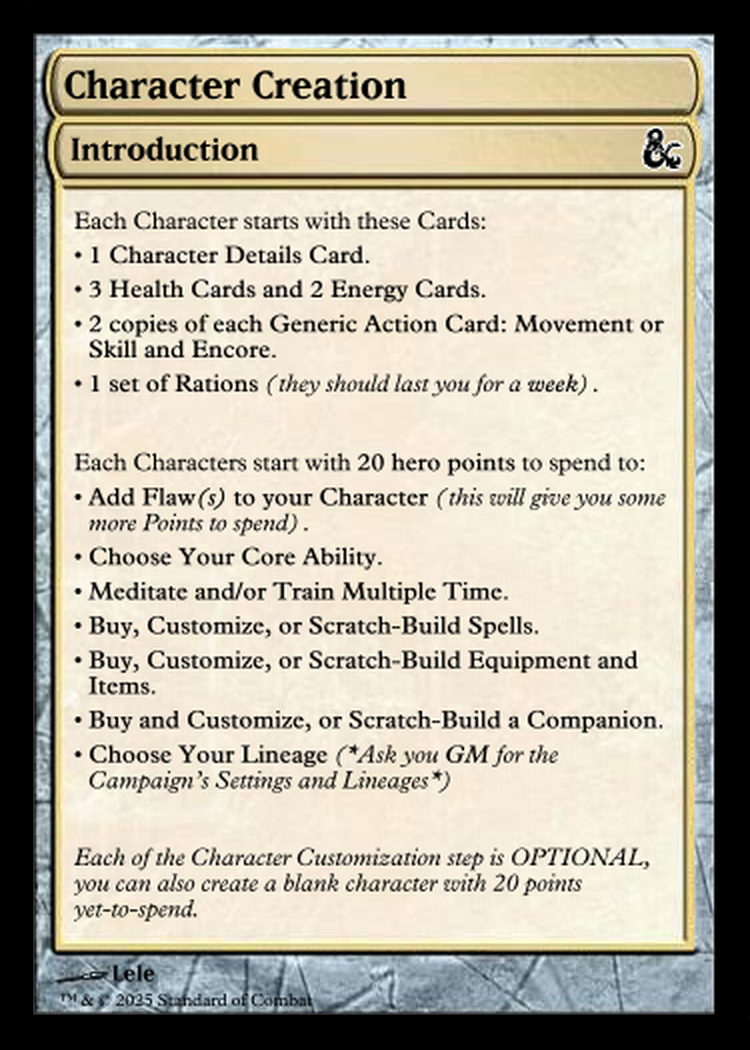
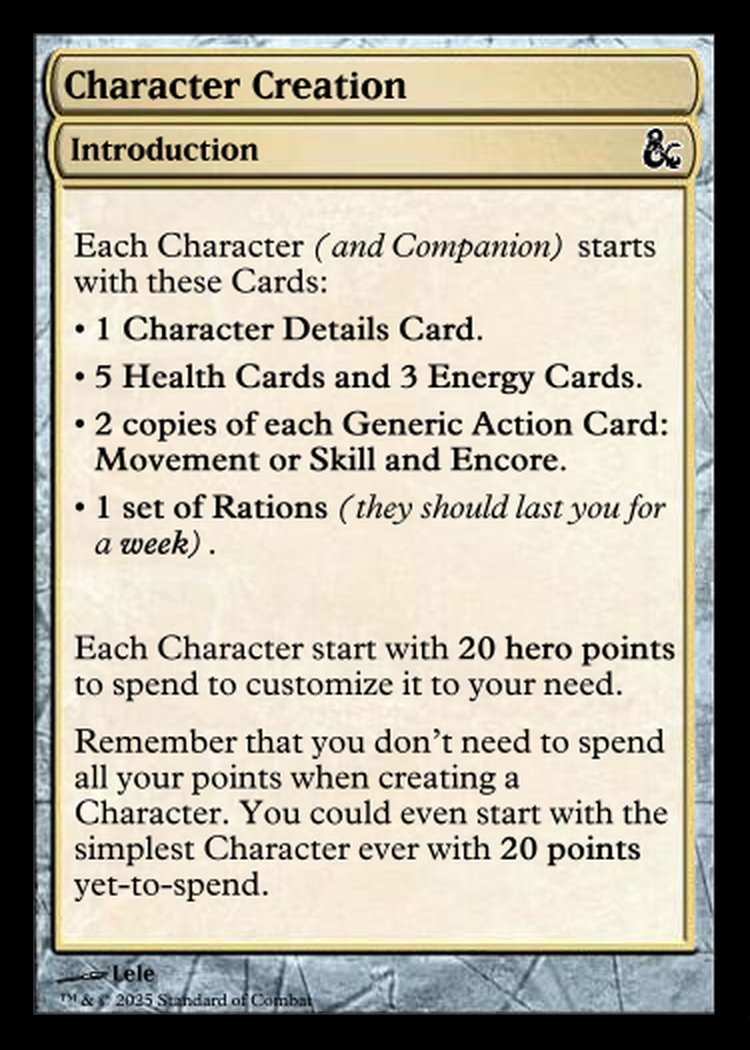
Quartz sync: Jul 28, 2025, 9:23 PM

Changed region(s): [[0.092, 0.1829, 0.92, 0.8838]]

diff --git a/content/Notes & Images/SoC - Ideas to Implement.md b/content/Notes & Images/SoC - Ideas to Implement.md
@@ -19,7 +19,7 @@ aliases:
 - The armor needs to be discarded in some way.
 - ***Idea #1*** — Remove **AC**, all attacks and effects are decided by an [[SoC • Rules - Opposing Rolls]] against the attacker and the receiver.<br>If you are the receiver, by discarding a piece of your armor you can [[reroll]] any of yours [[Agility]] or [[Might]] [[Skill Checks|checks]].
 - ***Idea #2*** — Remove **AC**, all attacks and effects are decided by an [[SoC • Rules - Opposing Rolls]] against the attacker and the receiver.<br>The Armor is only one piece.<br>While you have this **armor** equipped, all [[Agility]] and [[Might]] [[Skill Checks|Skill Checks]] made to defend against an [[SoC • Rules - Opposing Rolls]] are made with [[SoC • Rules - Advantage and Disadvantage|Advantage]], however if the result of the roll is under a certain value (depending on the type of armor) the armor become [[Damaged Gear|Damaged]] and you have to discard it<br>***BIG PROBLEM***: [[Might]] and [[Agility]] will probably be overpowered.
-- ***Idea #3*** — Remove **AC**, all attacks and effects are decided by an [[SoC • Rules - Opposing Rolls]] against the attacker and the receiver.<br>The Armor is only one piece.<br>***Light Armor***:<br>***[[Discard Pile|Discard]]***: Reduce the incoming damage by 3.<br>(_Damage Reduction effects cannot be comulated, if you have multiple active, only choose **1** of them to apply_)<br>***Buckler***:<br>***[[Discard Pile|Discard]]***: Reduce the incoming damage by 3.<br>(_Damage Reduction effects cannot be comulated, if you have multiple active, only choose **1** of them to apply_)<br>***Medium Armors***:<br>If an attack would deal **1** damage, instead it deals **0**.<br>(_Damage Reduction effects cannot be comulated, if you have multiple active, only choose **1** of them to apply_)<br>***[[Discard Pile|Discard]]***: Reduce the incoming damage by 4.<br>***Shield***:<br>Reduce all incoming damage by **2**.<br>_Keep yuor Shield Up_ — Whenever an attack is made against you: roll a **d10**, if the result is **4 or less**, [[Discard Pile|discard]] this card after the attack.<br>(_Damage Reduction effects cannot be comulated, if you have multiple active, only choose **1** of them to apply_)<br>***Heavy Armors***:<br>Reduce all incoming damage by **1**.<br>***[[Discard Pile|Discard]]***: Reduce the incoming damage by 5.<br>(_Damage Reduction effects cannot be comulated, if you have multiple active, only choose **1** of them to apply_)<br>***Tower Shields***:<br>Reduce all incoming damage by **2**.<br>_Keep yuor Shield Up_ — Whenever an attack is made against you: roll a **d10**, if the result is **2 or less**, [[Discard Pile|discard]] this card after the attack.<br>_Moving Tower_ — If one or more Creatures stand [[Combat Zones|near you]], you can also _Raise your Shield_ during their turns, to reduce the damge done to them.<br>(_Damage Reduction effects cannot be comulated, if you have multiple active, only choose **1** of them to apply_)<br>Change the [[SoC • Spell Effect - Mend|Mend]] spell to:<br>***2 pts*** — [[Heal and Repair|Repair]] a Light Armor or a Shield.<br>***4 pts*** — [[Heal and Repair|Repair]] a Medium Armor, a Light Armor or a Shield.<br>***6 pts*** — [[Heal and Repair|Repair]] any kind of Armor or Shields.
+- ***Idea #3*** — Remove **AC**, all attacks and effects are decided by an [[SoC • Rules - Opposing Rolls]] against the attacker and the receiver.<br>The Armor is only one piece.<br>***Light Armor***:<br>***[[Discard Pile|Discard]]***: Reduce the incoming damage by 3.<br>(_Damage Reduction effects cannot be comulated, if you have multiple active, only choose **1** of them to apply_)<br>***Buckler***:<br>***[[Discard Pile|Discard]]***: Reduce the incoming damage by 3.<br>(_Damage Reduction effects cannot be comulated, if you have multiple active, only choose **1** of them to apply_)<br>***Medium Armors***:<br>If an attack would deal **1** damage, instead it deals **0**.<br>(_Damage Reduction effects cannot be comulated, if you have multiple active, only choose **1** of them to apply_)<br>***[[Discard Pile|Discard]]***: Reduce the incoming damage by 4.<br>***Shield***:<br>Reduce all incoming damage by **2**.<br>_Keep yuor Shield Up_ — Whenever an attack is made against you: roll a **d10**, if the result is **4 or less**, [[Discard Pile|discard]] this card after the attack.<br>(_Damage Reduction effects cannot be comulated, if you have multiple active, only choose **1** of them to apply_)<br>***Heavy Armors***:<br>Reduce all incoming damage by **1**.<br>***[[Discard Pile|Discard]]***: Reduce the incoming damage by 5.<br>(_Damage Reduction effects cannot be comulated, if you have multiple active, only choose **1** of them to apply_)<br>***Tower Shields***:<br>Reduce all incoming damage by **2**.<br>_Keep yuor Shield Up_ — Whenever an attack is made against you: roll a **d10**, if the result is **2 or less**, [[Discard Pile|discard]] this card after the attack.<br>_Moving Tower_ — If one or more Creatures stand [[SoC • Discord Bot - Thread • ZONES|near you]], you can also _Raise your Shield_ during their turns, to reduce the damge done to them.<br>(_Damage Reduction effects cannot be comulated, if you have multiple active, only choose **1** of them to apply_)<br>Change the [[SoC • Spell Effect - Mend|Mend]] spell to:<br>***2 pts*** — [[Heal and Repair|Repair]] a Light Armor or a Shield.<br>***4 pts*** — [[Heal and Repair|Repair]] a Medium Armor, a Light Armor or a Shield.<br>***6 pts*** — [[Heal and Repair|Repair]] any kind of Armor or Shields.
 - ***Idea #4*** — Should I introduce a new [[Skill Checks|Skill]] like **Evasion** and/or **Fortitude**, to reduce the power of [[Might]] and [[Agility]]?<br>This skill will be used to avoid most damages.
 ----
 ##### Spells

diff --git a/content/SoC • Discord Bot - Thread • SPELL LIMITATIONS.md b/content/SoC • Discord Bot - Thread • SPELL LIMITATIONS.md
@@ -2,36 +2,7 @@
 aliases:
   - Spell Limitations
 ---
-# Spell Limitations (just a description)
-1. ***[[SoC • Spell Limitation - Binding Oath|Binding Oath]]*** — _You learned this spell as part of a deal_.
-2. ***[[SoC • Spell Limitation - Cannot be Customized|Cannot be customized]]*** — _You cannot modify this spell anymore_.
-3. ***[[SoC • Spell Limitation - Cannot be Targeted|Cannot be targeted]]*** — _Spell always flies wild_.
-4. ***[[SoC • Spell Limitation - Elemental Anchor|Elemental anchor]]*** — _This spell can only be conjured via a particular element_.
-5. ***[[SoC • Spell Limitation - Eldrich Bond|Eldrich bond]]*** — _You and the target of the spell become temporarily connected_.
-6. ***[[SoC • Spell Limitation - Exhausting|Exhausting]]*** — _No magic can be used in the **following [[Phases of Combat|round]]** after cast_.
-7. ***[[SoC • Spell Limitation - Cost Material to Cast|Cost material to cast]]*** — _When cast, one item in your inventory is [[Destroyed Gear|destroyed]]_.
-8. ***[[SoC • Spell Limitation - Druidic|Druidic]]*** — _Cannot be cast if the caster wears or is touching any metal_.
-9. ***[[SoC • Spell Limitation - Debilitating|Debilitating]]*** — _After this spell is cast, you can only make one action on your next turn_.
-10. ***[[SoC • Spell Limitation - Linked to Physical Object|Linked to physical object]]*** — _The spell manifests with or through an object_.
-11. ***[[SoC • Spell Limitation - Maddening|Maddening]]*** — _There is a chance of going temporarily crazy_.
-12. ***[[SoC • Spell Limitation - Must be Sustained|Must be sustained]]*** — _The spell is difficult to maintain and cast_.
-13. ***[[SoC • Spell Limitation - Mana Drain|Mana drain]]*** — _Sacrifice another of your spells_.
-14. ***[[SoC • Spell Limitation - Nullified by|Nullified by]]*** — _Some type of enemies are unaffected_.
-15. ***[[SoC • Spell Limitation - Only Works on Specific Target Type|Only works on specific target type]]*** — _Only a type of enemy is affected_.
-16. ***[[SoC • Spell Limitation - Only Works Outdoors|Only works outdoors]]*** — _Elemental forces are required to cast_.
-17. ***[[SoC • Spell Limitation - Painful|Painful]]*** — _Be careful when casting this spell, it will try to harm you_.
-18. ***[[SoC • Spell Limitation - Rad Speech|Rad speech]]*** — _You need to shout when casting_.
-19. ***[[SoC • Spell Limitation - Requires Contact|Requires Contact]]*** — _Cannot be cast on yourself, and you need to touch your target/s_.
-20. ***[[SoC • Spell Limitation - Ritual|Ritual]]*** — _The spell is really difficult to cast_.
-21. ***[[SoC • Spell Limitation - Sacrificial Rite|Sacrificial rite]]*** — _The spell demands fresh blood_.
-22. ***[[SoC • Spell Limitation - Symbiotic|Symbiotic]]*** — _A friendly caster needs to help you_.
-23. ***[[SoC • Spell Limitation - Takes One Round to Cast|Takes one turn to cast]]*** — _Slower to cast_.
-24. ***[[SoC • Spell Limitation - Temporal Lock|Temporal lock]]*** — _This spell can only be cast at a specific time of day_.
-25. ***[[SoC • Spell Limitation - Unstable|Unstable]]*** — _A wobbly, barely-contained magic_.
-26. ***[[SoC • Spell Limitation - Uses Infernal Powers|Uses infernal powers]]*** — _Ancient forces might attack you if you use this spell_.
-27. ***[[SoC • Spell Limitation - Veil of Silence|Veil of silence]]*** — _Lose your voice_.
-
-# Spell Limitations Cards
+# Spell Limitations
 
 ![[SoC • Card - Binding Oath.png]]
 

diff --git a/content/Notes & Images/SoC • Rest and Recovery - A Night of Rest.md b/content/Notes & Images/SoC • Rest and Recovery - A Night of Rest.md
@@ -4,7 +4,7 @@ aliases:
 ---
 %%
 - ***Type***: Rules
-- ***Description***:<br>**After a night or rest** — You regain all your [[Discard Pile|Discarded]] [[SoC • Discord Bot - Thread • HEALTH]] and [[SoC • Discord Bot - Thread • ENERGY|Energy]] cards, you remove **1** [[SoC • Generic Card - Closer to Death|Closer to Death Card]] if you had any, also many **conditions** end after a night of rest.<br>**As part of a night of rest** — _If you have enough points to spend_, you can work on personal projects (_like creating a [[SoC • Discord Bot - Thread • CUSTOM SPELLS|Spell]], [[Custom Equipment|Upgrading your Gear]], ..._), you can invest up to **2 hours** of time into this projects.<br>Otherwise, you can spend some time [[Meditate and Train|Meditating and Training]]. Roll **5d20**s, for **any** [[The Extremes|critical success]], you can spend your points in one:<br>• ***Meditate (2 pts)*** — Increase one skill modifier by **+1**. Gain **1 [[Type of Cards|Energy Card]]**.<br>• ***Train (1 pt)*** — Increase one skill modifier by **+1**. Gain **1 [[Type of Cards|Health Card]]**.<br>**Slept Well** — If you choose to rest for the full **8 hours**, without indulging in any other activity, you'll gain **1 [[SoC • Discord Bot - Thread • HEALTH|Temporary Health]]** and **1 [[SoC • Discord Bot - Thread • ENERGY|Temporary Energy]]** for the rest of the next day.<br>You can take up to **1** night of rest **per day**. _Normally a night of rest is considered to be a total of **8 hours**_.
+- ***Description***:<br>**After a night or rest** — You regain all your [[Discard Pile|Discarded]] [[SoC • Discord Bot - Thread • HEALTH]] and [[SoC • Discord Bot - Thread • ENERGY|Energy]] cards, you remove **1** [[SoC • Generic Card - Closer to Death|Closer to Death Card]] if you had any, also many **conditions** end after a night of rest.<br>**As part of a night of rest** — _If you have enough points to spend_, you can work on personal projects (_like creating a [[SoC • Discord Bot - Thread • CUSTOM SPELLS|Spell]], [[SoC • Discord Bot - Thread • CUSTOM GEAR|Upgrading your Gear]], ..._), you can invest up to **2 hours** of time into this projects.<br>Otherwise, you can spend some time [[Meditate and Train|Meditating and Training]]. Roll **5d20**s, for **any** [[The Extremes|critical success]], you can spend your points in one:<br>• ***Meditate (2 pts)*** — Increase one skill modifier by **+1**. Gain **1 [[Type of Cards|Energy Card]]**.<br>• ***Train (1 pt)*** — Increase one skill modifier by **+1**. Gain **1 [[Type of Cards|Health Card]]**.<br>**Slept Well** — If you choose to rest for the full **8 hours**, without indulging in any other activity, you'll gain **1 [[SoC • Discord Bot - Thread • HEALTH|Temporary Health]]** and **1 [[SoC • Discord Bot - Thread • ENERGY|Temporary Energy]]** for the rest of the next day.<br>You can take up to **1** night of rest **per day**. _Normally a night of rest is considered to be a total of **8 hours**_.
 - ***Flavor***: 
 - ***Rarity***: common
 - ***Color***: artifact, white, black 

diff --git a/content/SoC • Rules - Potions.md b/content/SoC • Rules - Potions.md
@@ -4,7 +4,7 @@ aliases:
 ---
 %%
 - ***Type***: Rules
-- ***Description***:<br>You can create a Potion by imbuing a [[SoC • Discord Bot - Thread • CUSTOM SPELLS|Spell]] you know, that does not have a [[SoC • Discord Bot - Thread • CUSTOM SPELLS|Limitation]], and pay half its cost in [[SoC • Discord Bot - Thread • NEW CAMPAIGN]] (_rounded up_).<br>You also need to spend **1 hour** imbuing the spell, and succeed an [[Arcane]], [[Nature]] or [[Faith]] [[Skill Checks|check]] with [[Skill Checks|DC]] equal to **10 + 3 times the cost of the spell**.<br><br>Like a Scroll, a spell casted from a Potion requiring one or more [[Skill Checks|Skill Checks]] uses the [[Skill Checks|Modifiers]] of the Creature that made it. And after the spell imbued in a Potion is casted the item is [[Destroyed Gear|Destroyed]].<br><br>A potion does not require to be deciphered to be used, you can drink it, or throw it, and the spell effects are applied on the Creature or [[Combat Zones|Zone]] it falls on.<br>You can throw it in your [[Combat Zones|Zone]] or a nearby one without difficulty. If you wish to target a Creature with the potion you need to succeed in a [[SoC • Rules - Melee and Ranged Attacks|Ranged Attack]] against it.<br><br>You can still try do decipher it first, but it will be very difficult, you need to spend **1 hour** studying it, and succeed an [[Intuition]] [[Skill Checks|check]] with [[Skill Checks|DC]] equal to **10 + 5 times the cost of the spell***.
+- ***Description***:<br>You can create a Potion by imbuing a [[SoC • Discord Bot - Thread • CUSTOM SPELLS|Spell]] you know, that does not have a [[SoC • Discord Bot - Thread • CUSTOM SPELLS|Limitation]], and pay half its cost in [[SoC • Discord Bot - Thread • NEW CAMPAIGN]] (_rounded up_).<br>You also need to spend **1 hour** imbuing the spell, and succeed an [[Arcane]], [[Nature]] or [[Faith]] [[Skill Checks|check]] with [[Skill Checks|DC]] equal to **10 + 3 times the cost of the spell**.<br><br>Like a Scroll, a spell casted from a Potion requiring one or more [[Skill Checks|Skill Checks]] uses the [[Skill Checks|Modifiers]] of the Creature that made it. And after the spell imbued in a Potion is casted the item is [[Destroyed Gear|Destroyed]].<br><br>A potion does not require to be deciphered to be used, you can drink it, or throw it, and the spell effects are applied on the Creature or [[SoC • Discord Bot - Thread • ZONES|Zone]] it falls on.<br>You can throw it in your [[SoC • Discord Bot - Thread • ZONES|Zone]] or a nearby one without difficulty. If you wish to target a Creature with the potion you need to succeed in a [[SoC • Rules - Melee and Ranged Attacks|Ranged Attack]] against it.<br><br>You can still try do decipher it first, but it will be very difficult, you need to spend **1 hour** studying it, and succeed an [[Intuition]] [[Skill Checks|check]] with [[Skill Checks|DC]] equal to **10 + 5 times the cost of the spell***.
 - ***Flavor***: 
 - ***Rarity***: uncommon
 - ***Color***: artifact, blue, red

diff --git a/content/SoC • Discord Bot - Thread • SPELL EFFECTS.md b/content/SoC • Discord Bot - Thread • SPELL EFFECTS.md
@@ -1,38 +1,11 @@
 ---
 aliases:
   - Spell Effects
+  - Spell Effect
+  - Effect
+  - Effects
 ---
-# Spell Effects (just a description)
-1. ***[[SoC • Spell Effect - Alter|Adapt]]*** — _Change a Creature's body_.
-2. ***[[SoC • Spell Effect - Area|Area]]*** — _Increase area of a spell_.
-3. ***[[SoC • Spell Effect - Banish|Banish]]*** — _Destroy summoned creatures with ease_.
-4. ***[[SoC • Spell Effect - Create|Create]]*** — _Create an object from nothing imbued with a spell_.
-5. ***[[SoC • Spell Effect - Defensive|Defense]]*** — _Magically defend against incoming attacks_
-6. ***[[SoC • Spell Effect - Duration|Duration]]*** — _The spell lasts longer_.
-7. ***[[SoC • Spell Effect - Dispel|Dispel]]*** — _Cancel other magic_.
-8. ***[[SoC • Spell Effect - Dominate|Dominate]]*** — _Force another creature to do your bidding_.
-9. ***[[SoC • Spell Effect - Harm|Harm]]*** — _Add damage to your spell_.
-10. ***[[SoC • Spell Effect - Haste|Haste]]*** — _Increase your speed_.
-11. ***[[SoC • Spell Effect - Hidden|Hidden]]*** — _Cast this spell without anyone noticing_.
-12. ***[[SoC • Spell Effect - Mend|Mend]]*** — _Repair a piece of equipment_.
-13. ***[[SoC • Spell Effect - Illusion|Illusion]]*** — _Create fake imagery_.
-14. ***[[SoC • Spell Effect - Lasting|Lasting]]*** — _Your spell become permanent_.
-15. ***[[SoC • Spell Effect - Obscure|Obscure]]*** — _Magically hide objects or creatures_.
-16. ***[[SoC • Spell Effect - Passive|Passive]]*** — _The Spell effect is always active on yourself_.
-17. ***[[SoC • Spell Effect - Psychokinesis|Psychokinesis]]*** — _Use [[Might]] at a distance_.
-18. ***[[SoC • Spell Effect - Randomic|Randomic]]*** — _The spell gains multiple effect, but are casted at random_.
-19. ***[[SoC • Spell Effect - Ranged|Ranged]]*** — _The spell no longer require to touch the target_.
-20. ***[[SoC • Spell Effect - Restore|Restore]]*** — _Heal yourself or an ally_.
-21. ***[[SoC • Spell Effect - Sensory|Sensory]]*** — _Enhance or manipulate a creature senses_.
-22. ***[[SoC • Spell Effect - Shapechange|Shapechange]]*** — _Your body changes in that of an animal_.
-23. ***[[SoC • Spell Effect - Summon|Summon]]*** — _Summon Creatures or Animate Objects to do your bidding_.
-24. ***[[SoC • Spell Effect - Telepathy|Telepathy]]*** — _Read the minds, or indulge in a private conversation_.
-25. ***[[SoC • Spell Effect - Transmute|Transmute]]*** — _Manipulate an inanimate object to your will_.
-26. ***[[SoC • Spell Effect - Transport|Transport]]*** — _Magically teleport a creature or an object_.
-27. ***[[SoC • Spell Effect - Ward|Ward]]*** — _Block access of a specified creature, through a passage_.
-28. ***[[SoC • Spell Effect - Wither|Wither]]*** — _Weaken another creature_.
-
-# Spell Effect Cards
+# Spell Effects
 
 ![[SoC • Card - Alter.png]]
 

diff --git a/content/Notes & Images/SoC • Core Ability - Master of the Forge.md b/content/Notes & Images/SoC • Core Ability - Master of the Forge.md
@@ -6,11 +6,11 @@ aliases:
 - ***Image***:<br>![[SoC • Core Ability - Master of the Forge (Image).png|222]]
 - ***Info***: Core Ability
 - ***Cost***: 7
-- ***Description***:<br>When you roll a [[Forging]] [[Skill Checks]], roll it with [[SoC • Rules - Advantage and Disadvantage|Advantage]].<br>When [[Custom Equipment|Upgrading]] a piece of [[Custom Equipment|Gear]], you can add one more **1 pt cost [[SoC • Discord Bot - Thread • CUSTOM SPELLS|Effect]]**, for free, however you still have to succeed in the [[Forging]] [[Skill Checks|Skill Check]] as usual.
+- ***Description***:<br>When you roll a [[Forging]] [[Skill Checks]], roll it with [[SoC • Rules - Advantage and Disadvantage|Advantage]].<br>When [[SoC • Discord Bot - Thread • CUSTOM GEAR|Upgrading]] a piece of [[SoC • Discord Bot - Thread • CUSTOM GEAR|Gear]], you can add one more **1 pt cost [[SoC • Discord Bot - Thread • CUSTOM SPELLS|Effect]]**, for free, however you still have to succeed in the [[Forging]] [[Skill Checks|Skill Check]] as usual.
 - ***Effects***: 
 - ***Limitations***: 
 - ***Color***: artifact 
-- _**Prompt** [ChatGPT](https://chatgpt.com/?model=auto)_: I need a 2D minimalistic fantasy illustration, in a minimal graphic style with white and black color, and a clean white background. It represents the core ability: ***Master of the Forge***. It has the following effect: Gain **7 points** in the [[Forging]] skill. Choose one [[Custom Equipment#Gear Effects Lists|Gear Effect]], when you successfully create or modify a piece of equipment, via your [[Forging]] [[Skill Checks|Skill]], you can add this effect to it, without paying any additional **points** (however the effect still counts in the [[Total Effect Cost]] of that gear). Add the words "***Master of the Forge***" under the image in a stylish font, they must be clearely visible.
+- _**Prompt** [ChatGPT](https://chatgpt.com/?model=auto)_: I need a 2D minimalistic fantasy illustration, in a minimal graphic style with white and black color, and a clean white background. It represents the core ability: ***Master of the Forge***. It has the following effect: Gain **7 points** in the [[Forging]] skill. Choose one [[SoC • Discord Bot - Thread • CUSTOM GEAR#Gear Effects Lists|Gear Effect]], when you successfully create or modify a piece of equipment, via your [[Forging]] [[Skill Checks|Skill]], you can add this effect to it, without paying any additional **points** (however the effect still counts in the [[Total Effect Cost]] of that gear). Add the words "***Master of the Forge***" under the image in a stylish font, they must be clearely visible.
 %%
 
 ### Card

diff --git a/content/Notes & Images/Forging.md b/content/Notes & Images/Forging.md
@@ -1,7 +1,7 @@
 %%
 - ***Image***:<br>![[Forging (image).png|222]]
 - ***Info***: Skill
-- ***Description***:<br>Learn the art of the **Forge** to:<br>• [[SoC • Rules - Craft New Equipment|Craft]], [[SoC • Rules - Upgrading a Piece of Equipment|Upgrade]] and [[Heal and Repair|Repair]] [[Equipment List|Equipment]].<br>• Identify and understand how a certain [[Custom Equipment|Gear]] works.<br><br>You can **[[SoC • Rules - Craft New Equipment|Craft]]** or **[[SoC • Rules - Upgrading a Piece of Equipment|Upgrade]]** a piece of Equipment, by spending **1 hour** to work on it, and then make a [[Forging]] [[Skill Checks|Skill Check]] with a [[Skill Checks|DC]] of **10 + 3 times the total cost of the equipment**, if you succeed you can spend **Hero Points** to pay its cost and obtain the **equipment**.<br>You can also work **1 hour** on a piece of [[Damaged Gear|Damaged]] Equipment to [[Heal and Repair|Repair]] it. To succeed make a [[Forging]] [[Skill Checks|Skill Check]] with a [[Skill Checks|DC]] of **5 + 3 times the total cost of the equipment**.<br>You can try [[SoC • Rules - Craft New Equipment|Craft]], [[SoC • Rules - Upgrading a Piece of Equipment|Upgrade]] and [[Heal and Repair|Repair]] a piece of Equipment this way, as part of a [[Rest and Recovery|short rest]].
+- ***Description***:<br>Learn the art of the **Forge** to:<br>• [[SoC • Rules - Craft New Equipment|Craft]], [[SoC • Rules - Upgrading a Piece of Equipment|Upgrade]] and [[Heal and Repair|Repair]] [[Equipment List|Equipment]].<br>• Identify and understand how a certain [[SoC • Discord Bot - Thread • CUSTOM GEAR|Gear]] works.<br><br>You can **[[SoC • Rules - Craft New Equipment|Craft]]** or **[[SoC • Rules - Upgrading a Piece of Equipment|Upgrade]]** a piece of Equipment, by spending **1 hour** to work on it, and then make a [[Forging]] [[Skill Checks|Skill Check]] with a [[Skill Checks|DC]] of **10 + 3 times the total cost of the equipment**, if you succeed you can spend **Hero Points** to pay its cost and obtain the **equipment**.<br>You can also work **1 hour** on a piece of [[Damaged Gear|Damaged]] Equipment to [[Heal and Repair|Repair]] it. To succeed make a [[Forging]] [[Skill Checks|Skill Check]] with a [[Skill Checks|DC]] of **5 + 3 times the total cost of the equipment**.<br>You can try [[SoC • Rules - Craft New Equipment|Craft]], [[SoC • Rules - Upgrading a Piece of Equipment|Upgrade]] and [[Heal and Repair|Repair]] a piece of Equipment this way, as part of a [[Rest and Recovery|short rest]].
 - ***Flavor***: 
 - ***Color***: red 
 - ***Rarity***: common

diff --git a/content/SoC • Introduction - Character Creation.md b/content/SoC • Introduction - Character Creation.md
@@ -4,8 +4,8 @@ aliases:
 ---
 %%
 - ***Type***: Introduction
-- ***Description***:<br>Each Character starts with these Cards:<br>• **1 [[SoC • Discord Bot - Thread • SKILLS|Character Details Card]]**.<br>• **5 [[Type of Cards|Health Cards]] and 3 [[SoC • Discord Bot - Thread • ENERGY|Energy Cards]]**.<br>• **2 copies of each Generic Action Card: [[SoC • Generic Action - Movement or Skill|Movement or Skill]] and [[SoC • Generic Action - Encore|Encore]]**.<br>• **1 set of [[SoC • Item - Rations|Rations]]** (_they should last you for a **week**_).<br><br>Each Characters start with **20 hero points** to spend to:<br>• **[[SoC • Discord Bot - Thread • FLAWS|Add Flaw(s) to your Character]]** (_this will give you some more Points to spend_).<br>• **[[SoC • Discord Bot - Thread • CORE ABILITIES|Choose Your Core Ability]]**.<br>• **[[Meditate and Train|Meditate and/or Train Multiple Time]]**.<br>• **[[SoC • Discord Bot - Thread • CUSTOM SPELLS|Buy, Customize, or Scratch-Build Spells]]**.<br>• **[[Custom Equipment|Buy, Customize, or Scratch-Build Equipment and Items]]**.<br>• **[[SoC • Discord Bot - Thread • COMPANIONS|Buy and Customize, or Scratch-Build a Companion]]**.<br>• **[[Lineage|Choose Your Lineage]]** (*Ask you **GM** for the Campaign's Settings and Lineages*)
-- ***Flavor***: Each of the Character Customization step is **OPTIONAL**, you can also create a blank character with **20 points** yet-to-spend.
+- ***Description***:<br>Each Character (_and [[SoC • Rules - Companions|Companion]]_) starts with these Cards:<br>• **1 [[SoC • Card - Character Details|Character Details]] Card**.<br>• **5 [[SoC • Discord Bot - Thread • HEALTH|Health Cards]] and 3 [[SoC • Discord Bot - Thread • ENERGY|Energy Cards]]**.<br>• **2 copies of each Generic Action Card: [[SoC • Generic Action - Movement or Skill|Movement or Skill]] and [[SoC • Generic Action - Encore|Encore]]**.<br>• **1 set of [[SoC • Item - Rations|Rations]]** (_they should last you for a **week**_).<br><br>Each Character start with **20 hero points** to spend to customize it to your need.<br>Remember that you don't need to spend all your points when creating a Character. You could even start with the simplest Character ever with **20 points** yet-to-spend.
+- ***Flavor***: 
 - ***Rarity***: common
 - ***Color***: artifact, multicolor
 %%

diff --git a/content/Notes & Images/SoC • Discord Bot - Thread • FLAWS.md b/content/Notes & Images/SoC • Discord Bot - Thread • FLAWS.md
@@ -3,29 +3,6 @@ aliases:
   - Flaws
 ---
 ![[SoC • Card - Flaws.png|350]]
-# Character Flaws List
-1. ***[[SoC • Flaw - Addict|Addict]]*** — _You have a specific vice you cannot deny_.
-2. ***[[SoC • Flaw - Ascetic|Ascetic]]*** — _You frown on possessions_.
-3. ***[[SoC • Flaw - Ancient|Ancient]]*** — _You are old!_.
-4. ***[[SoC • Flaw - Bad Reputation|Bad reputation]]*** — _You’ve done things... terrible things, and people know about it_.
-5. ***[[SoC • Flaw - Crazy|Crazy]]*** — _When faced with a difficult choice, choose randomly_.
-6. ***[[SoC • Flaw - Disorganized|Disorganized]]*** — _To you most things are difficult to find_.
-7. ***[[SoC • Flaw - Drunkard|Drunkard]]*** — _You cannot renounce alcohol_.
-8. ***[[SoC • Flaw - Employed|Employed]]*** — _You are paid or oath-sworn to a lord or employer_.
-9. ***[[SoC • Flaw - Greedy|Greedy]]*** — _Always tempted by treasure_.
-10. ***[[SoC • Flaw - Grudge|Grudge]]*** — _You have been wronged, and hold it against an individual or group, unjustly_.
-11. ***[[SoC • Flaw - Impetuous|Impetuous]]*** — _You are impatient, leaping into situations without planning or reservation_.
-12. ***[[SoC • Flaw - Injured|Injured]]*** — _A grievous wound to the hand, a scar on your eye_.
-13. **[[SoC • Flaw - Just a Kid|Just a Kid]]** — _Hey, I’m just a kid!_.
-14. ***[[SoC • Flaw - Paranoid|Paranoid]]*** — _You invent your own boogie men, and sew doubt among others_.
-15. ***[[SoC • Flaw - Phobia|Phobia]]*** — _Extreme fear of a common thing_.
-16. ***[[SoC • Flaw - Pursued|Pursued]]*** — _You have a nemesis out there... somewhere... hunting you_.
-17. ***[[SoC • Flaw - Sickly|Sickly]]*** — _You were born frail, but that didn't stop you from adventuring_.
-18. ***[[SoC • Flaw - Stubborn|Stubborn]]*** — _Once you make up your mind it is really difficult to convince you otherwise_.
-19. ***[[SoC • Flaw - Timid|Timid]]*** — _You’d rather let others lead_.
-20. ***[[SoC • Flaw - Savior|Savior]]*** — _Your spells are for others, never for you_.
-21. ***[[SoC • Flaw - Unluky|Unlucky]]*** — _You fail spectacularly more often than others_.
-22. _**[[SoC • Flaw - Split Personality|Split Personality]]** (**+0 pts**)_ — _Your character personality changes when stressed out_.
 
 # Cards
 

diff --git a/content/Notes & Images/SoC • Rules - 2 Points Upgrade.md b/content/Notes & Images/SoC • Rules - 2 Points Upgrade.md
@@ -4,7 +4,7 @@ aliases:
 ---
 %%
 - ***Type***: Rules
-- ***Description***:<br>**2 Points Upgrade** — You can **upgrade your weapon** by paying **2 pts**, choose one [[SoC • Discord Bot - Thread • CUSTOM SPELLS|Spell]] with the same cost, (_and has duration of **1 hour** or more_) or **2** Spells that cost **1 pts** each (_and have duration of **1 hour** or more_), and use it/them as an **Upgrade**. However, you also need to choose and add one **[[Custom Equipment|Gear Defect]]** as well.<br>_Examples of 2 Points Upgrades_:<br>• _[[SoC • Spell Effect - Harm|Harm-2]]_ — This Gear deals **1d4** more damages.<br>• _[[SoC • Spell Effect - Mend|Mend-2]]_ — Each day, if this **Gear** is [[Damaged Gear|Damaged]], it gets magically [[Heal and Repair|Repaired]]. Otherwise, the first time this weapon would become [[Damaged Gear|Damaged]], instead it does not.<br>_[[SoC • Spell Effect - Sensory|Sensory-2]]_ — While having this **Gear** **Equipped** you see see all **Invisible** objects and Creatures **in your Zone**.
+- ***Description***:<br>**2 Points Upgrade** — You can **upgrade your weapon** by paying **2 pts**, choose one [[SoC • Discord Bot - Thread • CUSTOM SPELLS|Spell]] with the same cost, (_and has duration of **1 hour** or more_) or **2** Spells that cost **1 pts** each (_and have duration of **1 hour** or more_), and use it/them as an **Upgrade**. However, you also need to choose and add one **[[SoC • Discord Bot - Thread • CUSTOM GEAR|Gear Defect]]** as well.<br>_Examples of 2 Points Upgrades_:<br>• _[[SoC • Spell Effect - Harm|Harm-2]]_ — This Gear deals **1d4** more damages.<br>• _[[SoC • Spell Effect - Mend|Mend-2]]_ — Each day, if this **Gear** is [[Damaged Gear|Damaged]], it gets magically [[Heal and Repair|Repaired]]. Otherwise, the first time this weapon would become [[Damaged Gear|Damaged]], instead it does not.<br>_[[SoC • Spell Effect - Sensory|Sensory-2]]_ — While having this **Gear** **Equipped** you see see all **Invisible** objects and Creatures **in your Zone**.
 - ***Effects***: 
 - ***Limitations***: 
 - ***Color***: artifact, red 

diff --git a/content/Notes & Images/SoC • Flaw - Split Personality.md b/content/Notes & Images/SoC • Flaw - Split Personality.md
@@ -2,7 +2,7 @@
 - ***Image***:<br>![[SoC • Flaw - Split Personality (Edited).png|222]]
 - ***Info***: Flaw
 - ***Cost***: 0
-- ***Description***:<br>_Your character personality changes when stressed out_.<br>Decide on one or more other personalities, each with this characteristic:<br>• It must have the same number of flaws as your "main personality", they can be different ones.<br>• If your characters is [[SoC • Flaw - Injured|Injured]], then all personality are as well.<br>• Your different personalities can have different [[SoC • Discord Bot - Thread • CORE ABILITIES|Core Abilities]], if your **GM** allows.<br>Every time your [[The Extremes|critically fail]], change your **Character** personality. If you have multiples change it to a random one, or the one decided by your **GM**.<br>Every time your personality changes, your next "move" or turn is completely decided by your **GM**. 
+- ***Description***:<br>_Your character personality changes when stressed out_.<br>You don't gain any [[SoC • Discord Bot - Thread • NEW CAMPAIGN|Hero Points]] when you take this [[SoC • Discord Bot - Thread • FLAWS|Flaw]].<br>Decide on one or more other personalities, each with this characteristic:<br>• It must have the same number of flaws as your "main personality", they can be different ones.<br>• If your characters is [[SoC • Flaw - Injured|Injured]], then all personality are as well.<br>• Your different personalities can have different [[SoC • Discord Bot - Thread • CORE ABILITIES|Core Abilities]], if your **GM** allows.<br>Every time your [[The Extremes|critically fail]], change your **Character** personality. If you have multiples change it to a random one, or the one decided by your **GM**.<br>Every time your personality changes, your next "move" or turn is completely decided by your **GM**. 
 - ***Effects***: 
 - ***Limitations***: 
 - ***Color***: multicolor

diff --git a/content/Notes & Images/SoC • Core Ability - Brutal Fighter.md b/content/Notes & Images/SoC • Core Ability - Brutal Fighter.md
@@ -10,7 +10,7 @@ aliases:
 - ***Effects***: 
 - ***Limitations***: 
 - ***Color***: red 
-- _**Prompt** [ChatGPT](https://chatgpt.com/?model=auto)_: I need a 2D minimalistic fantasy illustration, in a minimal graphic style with white and black color, and a clean white background. It represents the core ability: ***Brutal Fighter***. It has the following effect: '_Gain **7 points** in the any two [[Skill Checks|Skill]], for free. You have been trained as a soldier who knows how to hit hard. Add **1d4** to all [[Attack, Defense and Combat Damage|Damage Roll]] from attacks made with your [[Custom Equipment|Gear]], When you roll maximum damage, roll again. There is no limit to the number of times the dice can '*explode*'._' Add the words "***Brutal Fighter***" under the image in a stylish font, they must be clearely visible and prominent.
+- _**Prompt** [ChatGPT](https://chatgpt.com/?model=auto)_: I need a 2D minimalistic fantasy illustration, in a minimal graphic style with white and black color, and a clean white background. It represents the core ability: ***Brutal Fighter***. It has the following effect: '_Gain **7 points** in the any two [[Skill Checks|Skill]], for free. You have been trained as a soldier who knows how to hit hard. Add **1d4** to all [[Attack, Defense and Combat Damage|Damage Roll]] from attacks made with your [[SoC • Discord Bot - Thread • CUSTOM GEAR|Gear]], When you roll maximum damage, roll again. There is no limit to the number of times the dice can '*explode*'._' Add the words "***Brutal Fighter***" under the image in a stylish font, they must be clearely visible and prominent.
 %%
 
 ### Card
